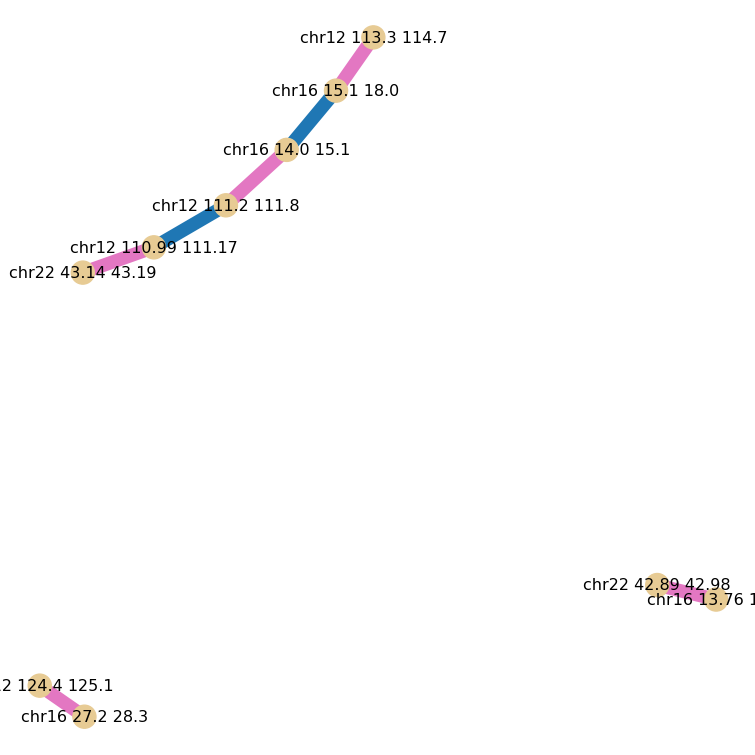
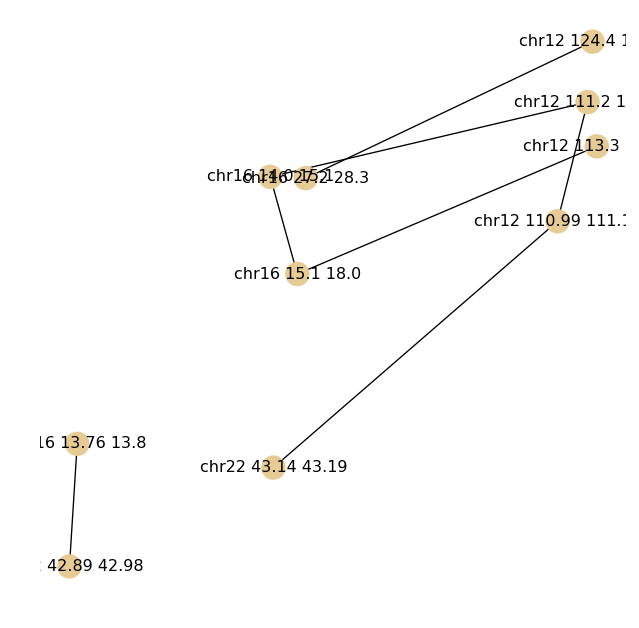
Better placement of breakpoints in graphs

diff --git a/Results/2020-02-19_chromoplexy/plot-breakpoint-graphs.py b/Results/2020-02-19_chromoplexy/plot-breakpoint-graphs.py
@@ -8,6 +8,7 @@ Take Breakfinder results and link breakpoints together by their positions
 import os.path as path
 import networkx as nx
 import pickle
+import numpy as np
 from genomic_interval import GenomicInterval, overlapping
 import matplotlib
 
@@ -19,7 +20,6 @@ plt.rcParams["figure.figsize"] = (20 / 2.54, 20 / 2.54)  # 20x20 cm
 # ==============================================================================
 # Constants
 # ==============================================================================
-BREAK_DIR = path.join("..", "2019-07-24_breakfinder", "Breakpoints", "Default")
 unique_annots = [
     "nearby",
     "recurrent",
@@ -31,6 +31,27 @@ unique_annots = [
     "UNKNOWN",
     "equivalent-TAD",
 ]
+chroms = ["chr" + str(i) for i in list(range(1, 23)) + ["X", "Y"]]
+
+# ==============================================================================
+# Functions
+# ==============================================================================
+def locus_to_plotpos(bp: GenomicInterval) -> (float, float):
+    """
+    Convert genomic locus to a position in the breakpoint graphs.
+    The chromosomes are laid out in a 4 rows x 6 cols pattern (chr1-22, X, Y)
+    
+    Parameters
+    ==========
+    bp: GenomicInterval
+        A breakpoint to be plotted
+    Returns: (float, float)
+    """
+    # find row and column for this breakpoint
+    i = chroms.index(bp.chr)
+    y = 6 - i // 6
+    x = i % 6
+    return (x, y)
 
 # ==============================================================================
 # Data
@@ -43,37 +64,72 @@ samples = list(G_sample.keys())
 # ==============================================================================
 # Plots
 # ==============================================================================
-# colours for edges between breakpoints
+# colours for edges between breakpoints (only get edges with an annotation, not the ones made for positioning)
+#edges, e_annots = zip(*nx.get_edge_attributes(G_all, "annotation").items())
+#n_colours = [plt.cm.tab20b(samples.index(n.data["sample"])) for n in G_all]
+#e_colours = [plt.cm.tab10(unique_annots.index(a)) for a in e_annots]
+#pos = nx.circular_layout(G_all)
+#nx.draw(
+#    G_all,
+#    pos,
+#    edgelist=None,
+#    node_color=n_colours,
+#    edge_color=e_colours,
+#    with_labels=False,
+#    width=1,
+#)
+#plt.savefig(path.join("Plots", "breakpoint-graph.png"), dpi=96)
+#plt.close()
 
-edges, e_annots = zip(*nx.get_edge_attributes(G_all, "annotation").items())
-n_colours = [plt.cm.tab20b(samples.index(n.data["sample"])) for n in G_all]
-e_colours = [plt.cm.tab10(unique_annots.index(a)) for a in e_annots]
-pos = nx.circular_layout(G_all)
-nx.draw(
-    G_all,
-    pos,
-    edgelist=None,
-    node_color=n_colours,
-    edge_color=e_colours,
-    with_labels=False,
-    width=1,
-)
-plt.savefig(path.join("Plots", "breakpoint-graph.png"), dpi=96)
-plt.close()
+# create phantom points for each chromosome and place them in a grid
+# this, coupled with the edges and spring_layout will approximately force
+# breakpoints on a particular chromosome to roughly be in the same spot
+# these points and edges are then not shown in the resulting graph
+# create weights between nodes based on their positions just for plotting
+n_centres = 4
+for i, s in enumerate(samples):
+    # create phantom points for each chromosome and place them in a grid
+    # this, coupled with the edges and spring_layout will approximately force
+    # breakpoints on a particular chromosome to roughly be in the same spot
+    # these points and edges are then not shown in the resulting graph
+    for c in chroms:
+        for j in range(n_centres):
+            chrom_node = GenomicInterval(c, 0, 1, {"sample": None})
+            G_sample[s].add_node(chrom_node)
 
 for i, s in enumerate(samples):
-    n_colours = [plt.cm.tab20b(i)] * len(G_sample[s])
+    # get nodes and colours corresponding to breakpoints
+    bp_nodes = [n for n in G_sample[s] if n.data["sample"] is not None]
+    # get colours for the nodes
+    n_colours = [plt.cm.tab20b(i)] * len(bp_nodes)
+    # get edges and colours corresponding to SV type
     edges, e_annots = zip(*nx.get_edge_attributes(G_sample[s], "annotation").items())
     e_colours = [plt.cm.tab10(unique_annots.index(a)) for a in e_annots]
-    pos = nx.spring_layout(G_sample[s])
-    nx.draw(
-        G_sample[s],
-        pos,
-        edgelist=None,
-        node_color=n_colours,
-        edge_color=e_colours,
-        with_labels=True,
-        width=10,
+    # get phantom nodes for each chromosomes
+    chrom_nodes = [n for n in G_sample[s] if n.data["sample"] is None]
+    # add edges between each breakpoint and its chromosome's phantom node
+    for n in bp_nodes:
+        for cn in [m for m in chrom_nodes if m.chr == n.chr]:
+            G_sample[s].add_edge(n, cn)
+    # get spring layout for the entire graph, fixing the phantom nodes at pre-defined points
+    pos = nx.spring_layout(
+        G=G_sample[s],
+        fixed=chrom_nodes,
+        pos={n: locus_to_plotpos(n) for n in chrom_nodes},
     )
-    plt.savefig(path.join("Plots", s + ".png"), dpi=96)
+    # get positions for bp_nodes, not the phantom ones
+    nodes_pos = {k: v for k, v in pos.items() if k in bp_nodes}
+    # plot this graph
+    fig, ax = plt.subplots()
+    nx.draw(
+        G_sample[s].subgraph(bp_nodes),
+        nodes_pos,
+        edgelist=edges,
+        node_color=n_colours,
+        #edge_color=e_colours,
+        with_labels=True,
+        #width=10,
+    )
+    #fig.tight_layout()
+    fig.savefig(path.join("Plots", s + ".png"), dpi=96, bbox_inches="tight")
     plt.close()
